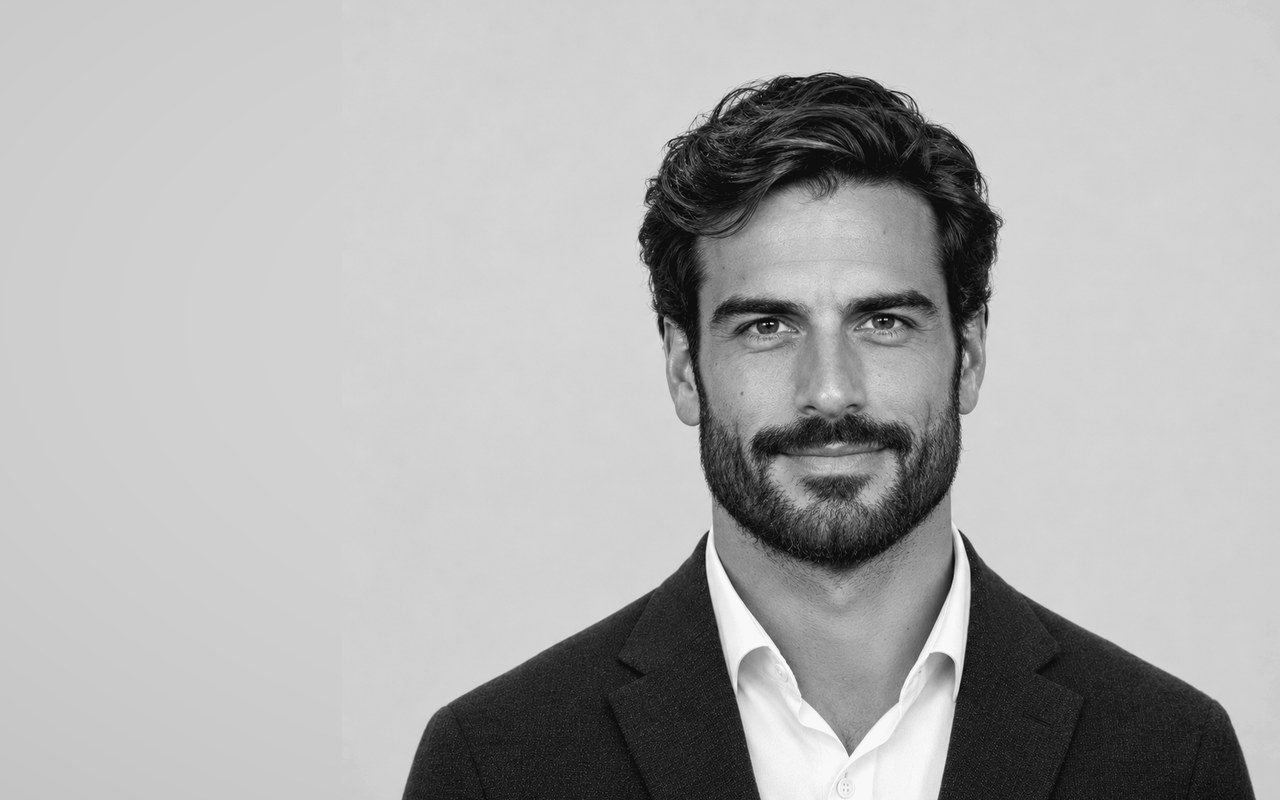
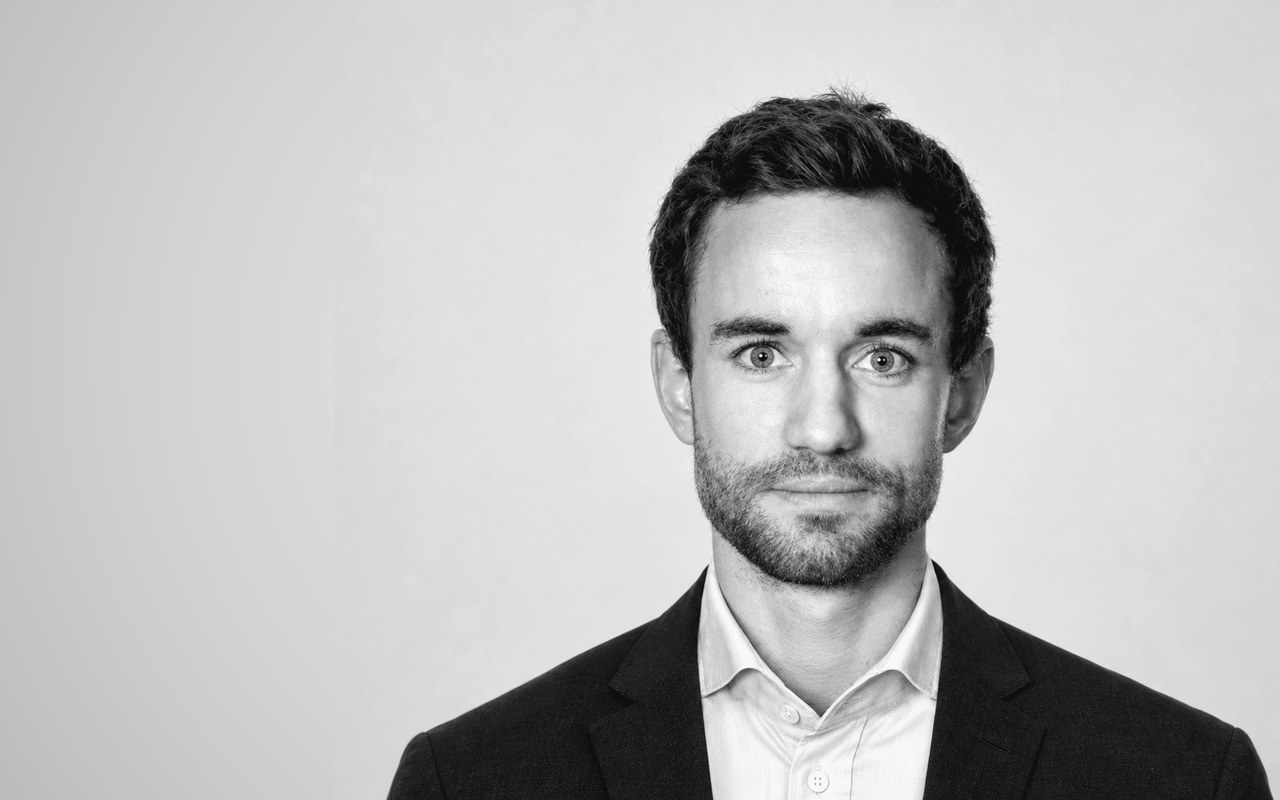
Port 4-wide team variant; prepare for GitHub Pages
Team in one row of four with Mattias (new portrait, Team Lead – Nevral
with logo and link, Nevral contact details); contacts bottom-aligned;
shorter Anders bio; Nevral sentence in the AI & technology band; intro
link mails Anders. Asset paths made relative so the site also works
under a project-pages sub-path; .nojekyll added.

Claude-Session: https://claude.ai/code/session_01YBMkN9yd1opv8CZHrsokYd

Changed region(s): [[0.2812, 0.0938, 0.9688, 1.0], [0.9688, 0.9062, 1.0, 1.0], [0.4688, 0.8438, 0.5, 0.875]]

diff --git a/index.html b/index.html
@@ -6,7 +6,7 @@
   <title>Nording &amp; Partners — Strategy, operations and M&amp;A</title>
   <meta name="description" content="Nording &amp; Partners is a Trondheim-based management consultancy supporting clients in strategy, operational improvement and transactions, with AI and data built into every engagement.">
   <link rel="canonical" href="https://www.nordingpartners.no/">
-  <link rel="icon" href="/favicon.svg" type="image/svg+xml">
+  <link rel="icon" href="favicon.svg" type="image/svg+xml">
   <meta property="og:type" content="website">
   <meta property="og:site_name" content="Nording &amp; Partners">
   <meta property="og:title" content="Nording &amp; Partners — Strategy, operations and M&amp;A">
@@ -14,7 +14,7 @@
   <meta property="og:url" content="https://www.nordingpartners.no/">
   <meta property="og:image" content="https://www.nordingpartners.no/assets/img/hero-fjord.jpg">
   <meta name="twitter:card" content="summary_large_image">
-  <link rel="stylesheet" href="/assets/css/site.css">
+  <link rel="stylesheet" href="assets/css/site.css">
   <script type="application/ld+json">
   {
     "@context": "https://schema.org",
@@ -38,10 +38,10 @@
   <a class="skip-link" href="#main">Skip to content</a>
 
   <header class="hero">
-    <img class="hero__image" src="/assets/img/hero-fjord.jpg" alt="" width="1920" height="1080" fetchpriority="high">
+    <img class="hero__image" src="assets/img/hero-fjord.jpg" alt="" width="1920" height="1080" fetchpriority="high">
     <nav class="container hero__nav" aria-label="Main">
       <a class="hero__logo" href="#top" aria-label="Nording &amp; Partners">
-        <img src="/assets/img/np-monogram-white.svg" alt="Nording &amp; Partners" width="79" height="32">
+        <img src="assets/img/np-monogram-white.svg" alt="Nording &amp; Partners" width="79" height="32">
       </a>
       <div class="hero__links">
         <a href="#work">What we do</a>
@@ -61,7 +61,7 @@
       <div class="container">
         <p class="lead measure">N&amp;P is a management consultancy supporting clients in value creation focused AI adoption, building on our expertise in strategy development, operational improvements and transactions.</p>
         <p class="lead measure">We work closely with our clients to create sustained results and bottom-line impact, and we are deeply committed to their long-term success.</p>
-        <p class="measure"><a href="#contact">Reach out to explore how we can aid in realizing your ambitions</a></p>
+        <p class="measure"><a href="mailto:anders.nording@nordingpartners.no">Reach out to explore how we can aid in realizing your ambitions</a></p>
       </div>
     </section>
 
@@ -95,7 +95,7 @@
           </div>
           <div class="band__intro">
             <h3 class="heading">AI &amp; technology</h3>
-            <p>The platform layer for all our work. We build AI and data into the analysis we do, the solutions we deliver and the operating models we leave behind, so that every engagement raises the client's own capability.</p>
+            <p>The platform layer for all our work. We build AI and data into the analysis we do, the solutions we deliver and the operating models we leave behind, so that every engagement raises the client's own capability. Where an engagement calls for it, we bring in deep technical expertise from our <a href="https://nevral.no" target="_blank" rel="noopener">Nevral</a> team.</p>
           </div>
           <div class="band__lists">
             <div class="band__list">
@@ -138,18 +138,18 @@
 
           <article class="person">
             <div class="person__photo">
-              <img src="/assets/img/team/han.jpg" alt="Anders Nording" width="1280" height="800" loading="lazy">
+              <img src="assets/img/team/han.jpg" alt="Anders Nording" width="1280" height="800" loading="lazy">
               <span class="person__initials" aria-hidden="true">HAN</span>
             </div>
             <h3 class="heading">Anders Nording</h3>
             <p class="small muted">Managing Partner</p>
-            <p>Anders combines investment banking experience with strategy consulting from Boston Consulting Group and PwC. He leads the firm and works directly with clients on strategy, transactions and operational improvements.</p>
+            <p>Anders combines investment banking experience with strategy consulting from Boston Consulting Group and PwC, and works directly with clients on strategy and transactions.</p>
             <p class="person__contact"><a href="mailto:anders.nording@nordingpartners.no">anders.nording@nordingpartners.no</a><br><a href="tel:+4795261403">+47 952 61 403</a></p>
           </article>
 
           <article class="person">
             <div class="person__photo">
-              <img src="/assets/img/team/eo.jpg" alt="Erlend Østerås" width="1280" height="800" loading="lazy">
+              <img src="assets/img/team/eo.jpg" alt="Erlend Østerås" width="1280" height="800" loading="lazy">
               <span class="person__initials" aria-hidden="true">EØ</span>
             </div>
             <h3 class="heading">Erlend Østerås</h3>
@@ -160,7 +160,7 @@
 
           <article class="person">
             <div class="person__photo">
-              <img src="/assets/img/team/mah.jpg" alt="Marius A. Hansen" width="1280" height="800" loading="lazy">
+              <img src="assets/img/team/mah.jpg" alt="Marius A. Hansen" width="1280" height="800" loading="lazy">
               <span class="person__initials" aria-hidden="true">MAH</span>
             </div>
             <h3 class="heading">Marius A. Hansen</h3>
@@ -169,21 +169,22 @@
             <p class="person__contact"><a href="mailto:marius.hansen@nordingpartners.no">marius.hansen@nordingpartners.no</a><br><a href="tel:+4794370612">+47 943 70 612</a></p>
           </article>
 
-          <!-- Second row (consultants): hidden until bios, portraits and contact details are final. Remove the `hidden` attributes to show. -->
-          <article class="person" hidden>
+          <article class="person">
             <div class="person__photo">
-              <img src="/assets/img/team/mh.jpg" alt="Mattias Hornum" width="1280" height="800" loading="lazy">
+              <img src="assets/img/team/mh.jpg" alt="Mattias Hornum" width="1280" height="800" loading="lazy">
               <span class="person__initials" aria-hidden="true">MH</span>
             </div>
             <h3 class="heading">Mattias Hornum</h3>
-            <p class="small muted">Project Leader</p>
+            <p class="small muted person__role">Team Lead – <a href="https://nevral.no" target="_blank" rel="noopener" class="person__partner"><img src="assets/img/nevral-logo.png" alt="Nevral" width="123" height="40"></a></p>
             <p>Mattias holds a master's degree in AI and machine learning from Harvard University. His background is in robotics and management consulting.</p>
-            <p class="person__contact"><a href="mailto:post@nordingpartners.no">[email]</a><br><a href="tel:+47">[phone]</a></p>
+            <p class="person__contact"><a href="mailto:kontakt@nevral.no">kontakt@nevral.no</a><br><a href="tel:+4795260889">+47 952 60 889</a></p>
           </article>
+
+          <!-- Hidden until bios, portraits and contact details are final. Remove the `hidden` attributes to show. -->
 
           <article class="person" hidden>
             <div class="person__photo">
-              <img src="/assets/img/team/swh.jpg" alt="Sigrid W. Haugen" width="1280" height="800" loading="lazy">
+              <img src="assets/img/team/swh.jpg" alt="Sigrid W. Haugen" width="1280" height="800" loading="lazy">
               <span class="person__initials" aria-hidden="true">SWH</span>
             </div>
             <h3 class="heading">Sigrid W. Haugen</h3>
@@ -194,7 +195,7 @@
 
           <article class="person" hidden>
             <div class="person__photo">
-              <img src="/assets/img/team/jsp.jpg" alt="Jørgen S. Pettersen" width="1280" height="800" loading="lazy">
+              <img src="assets/img/team/jsp.jpg" alt="Jørgen S. Pettersen" width="1280" height="800" loading="lazy">
               <span class="person__initials" aria-hidden="true">JSP</span>
             </div>
             <h3 class="heading">Jørgen S. Pettersen</h3>
@@ -241,7 +242,7 @@
 
   <footer class="footer">
     <div class="container">
-      <img src="/assets/img/np-monogram-navy.svg" alt="N&amp;P" width="54" height="22">
+      <img src="assets/img/np-monogram-navy.svg" alt="N&amp;P" width="54" height="22">
       <p>Nording &amp; Partners AS · Org. no. 930 067 385 MVA · Registered office: Ferjemannsveien 4, 7042 Trondheim, Norway · © 2026</p>
     </div>
   </footer>

diff --git a/assets/css/site.css b/assets/css/site.css
@@ -238,10 +238,23 @@ p, ul { margin: 0; }
 .team .container { display: flex; flex-direction: column; gap: 48px; }
 .team__grid {
   display: grid;
-  grid-template-columns: repeat(auto-fit, minmax(280px, 1fr));
-  gap: 56px 48px;
+  grid-template-columns: repeat(auto-fit, minmax(230px, 1fr));
+  gap: 56px 32px;
 }
 .person { display: flex; flex-direction: column; gap: 12px; }
+.person .heading { font-size: 23px; }
+.person__role {
+  display: flex;
+  align-items: center;
+  gap: 6px;
+}
+.person__partner { display: inline-flex; align-items: center; }
+.person__partner img {
+  height: 16px;
+  width: auto;
+  position: relative;
+  top: -1px;
+}
 .person__photo {
   position: relative;
   aspect-ratio: 8 / 5;
@@ -267,7 +280,7 @@ p, ul { margin: 0; }
   color: var(--ink-faint);
 }
 .person h3 { margin-top: 12px; }
-.person__contact { margin-top: 4px; font-size: 14px; line-height: 1.7; }
+.person__contact { margin-top: auto; padding-top: 4px; font-size: 14px; line-height: 1.7; }
 
 /* Careers & contact */
 .careers { padding-top: var(--section-wide); }
